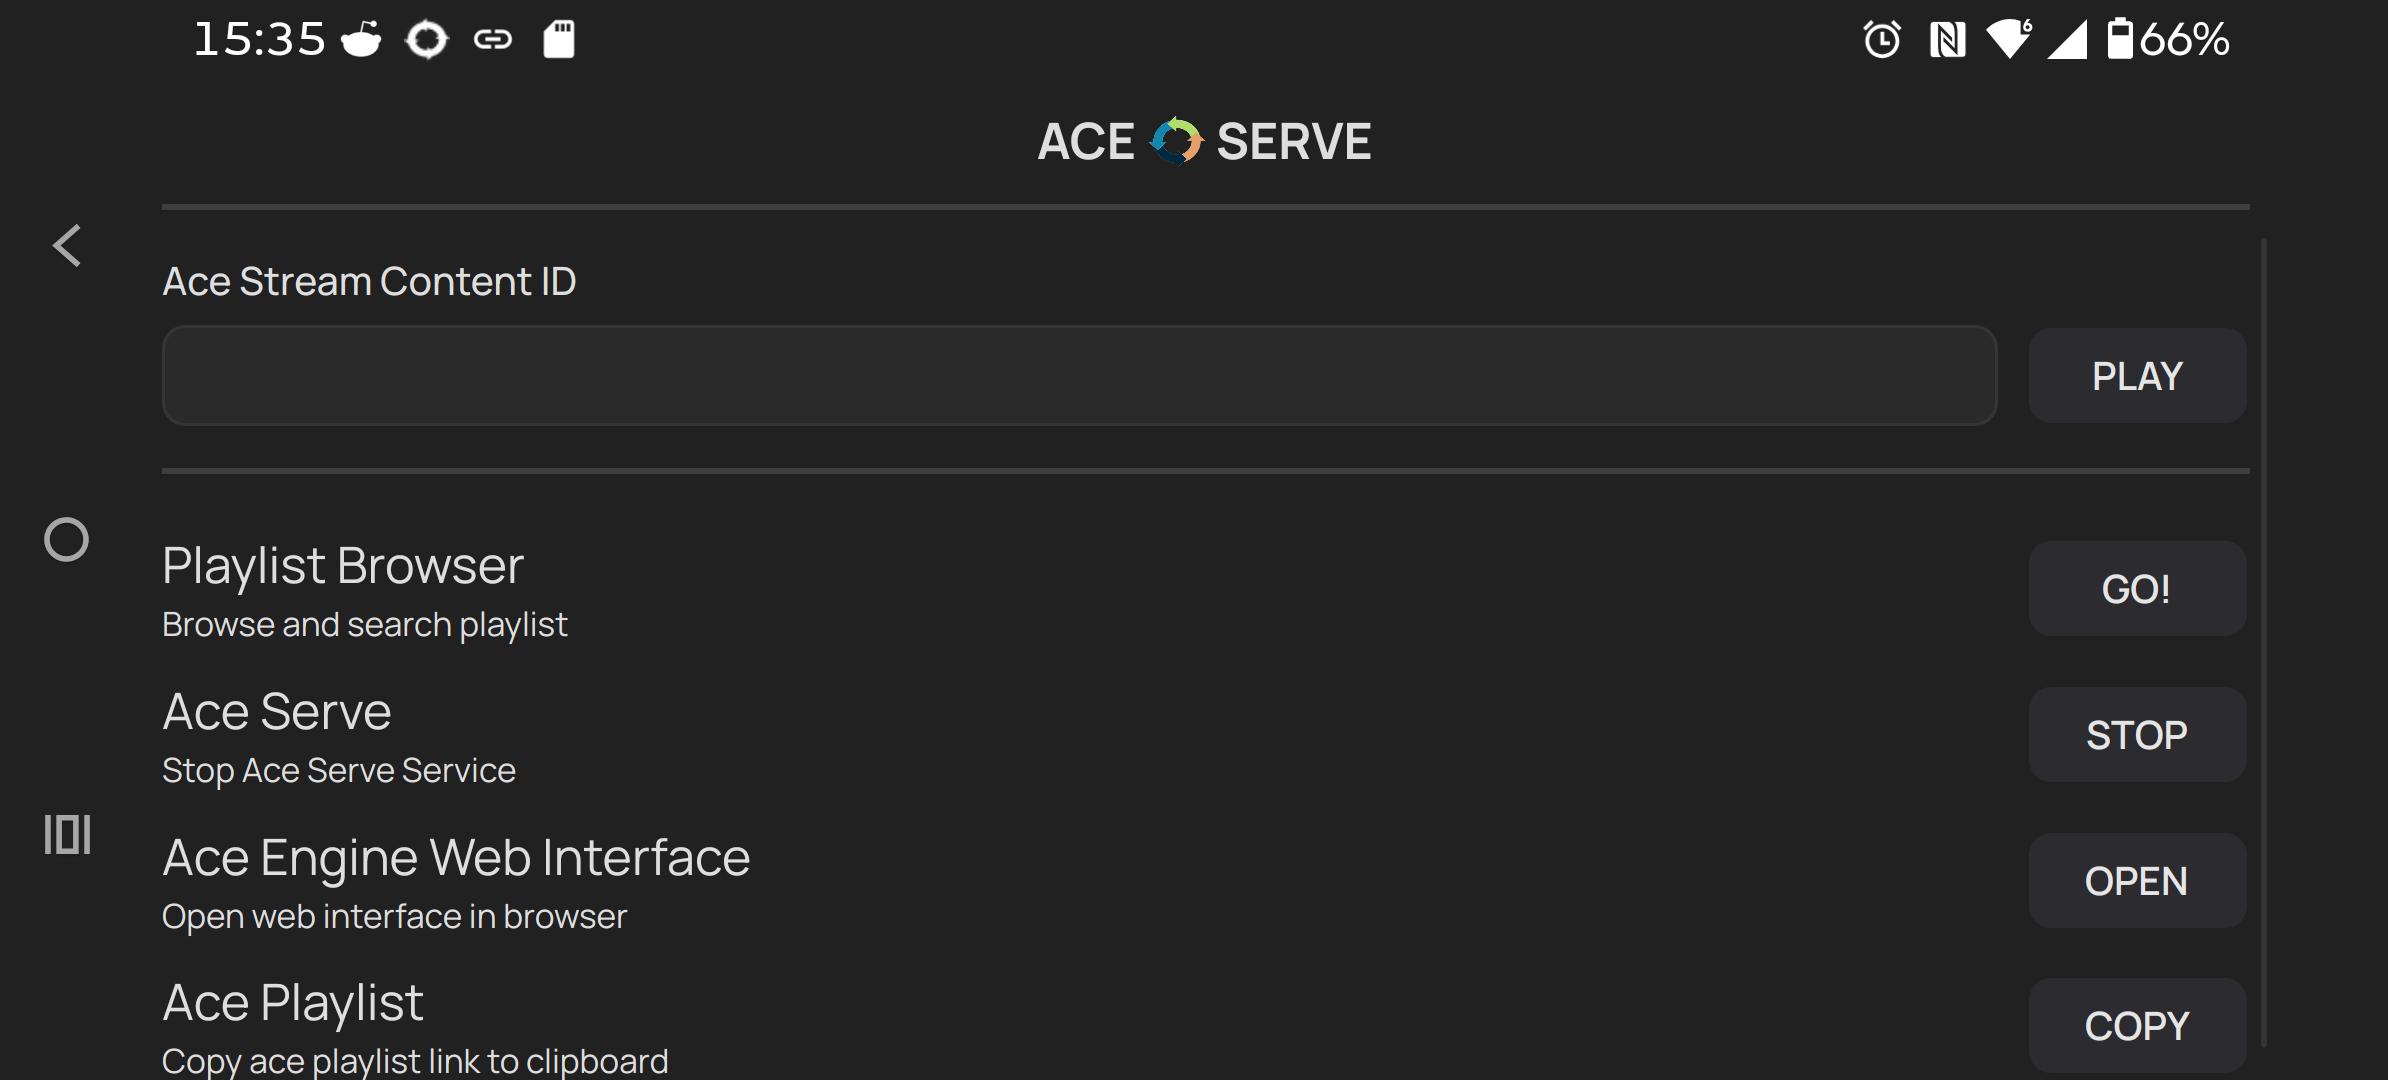
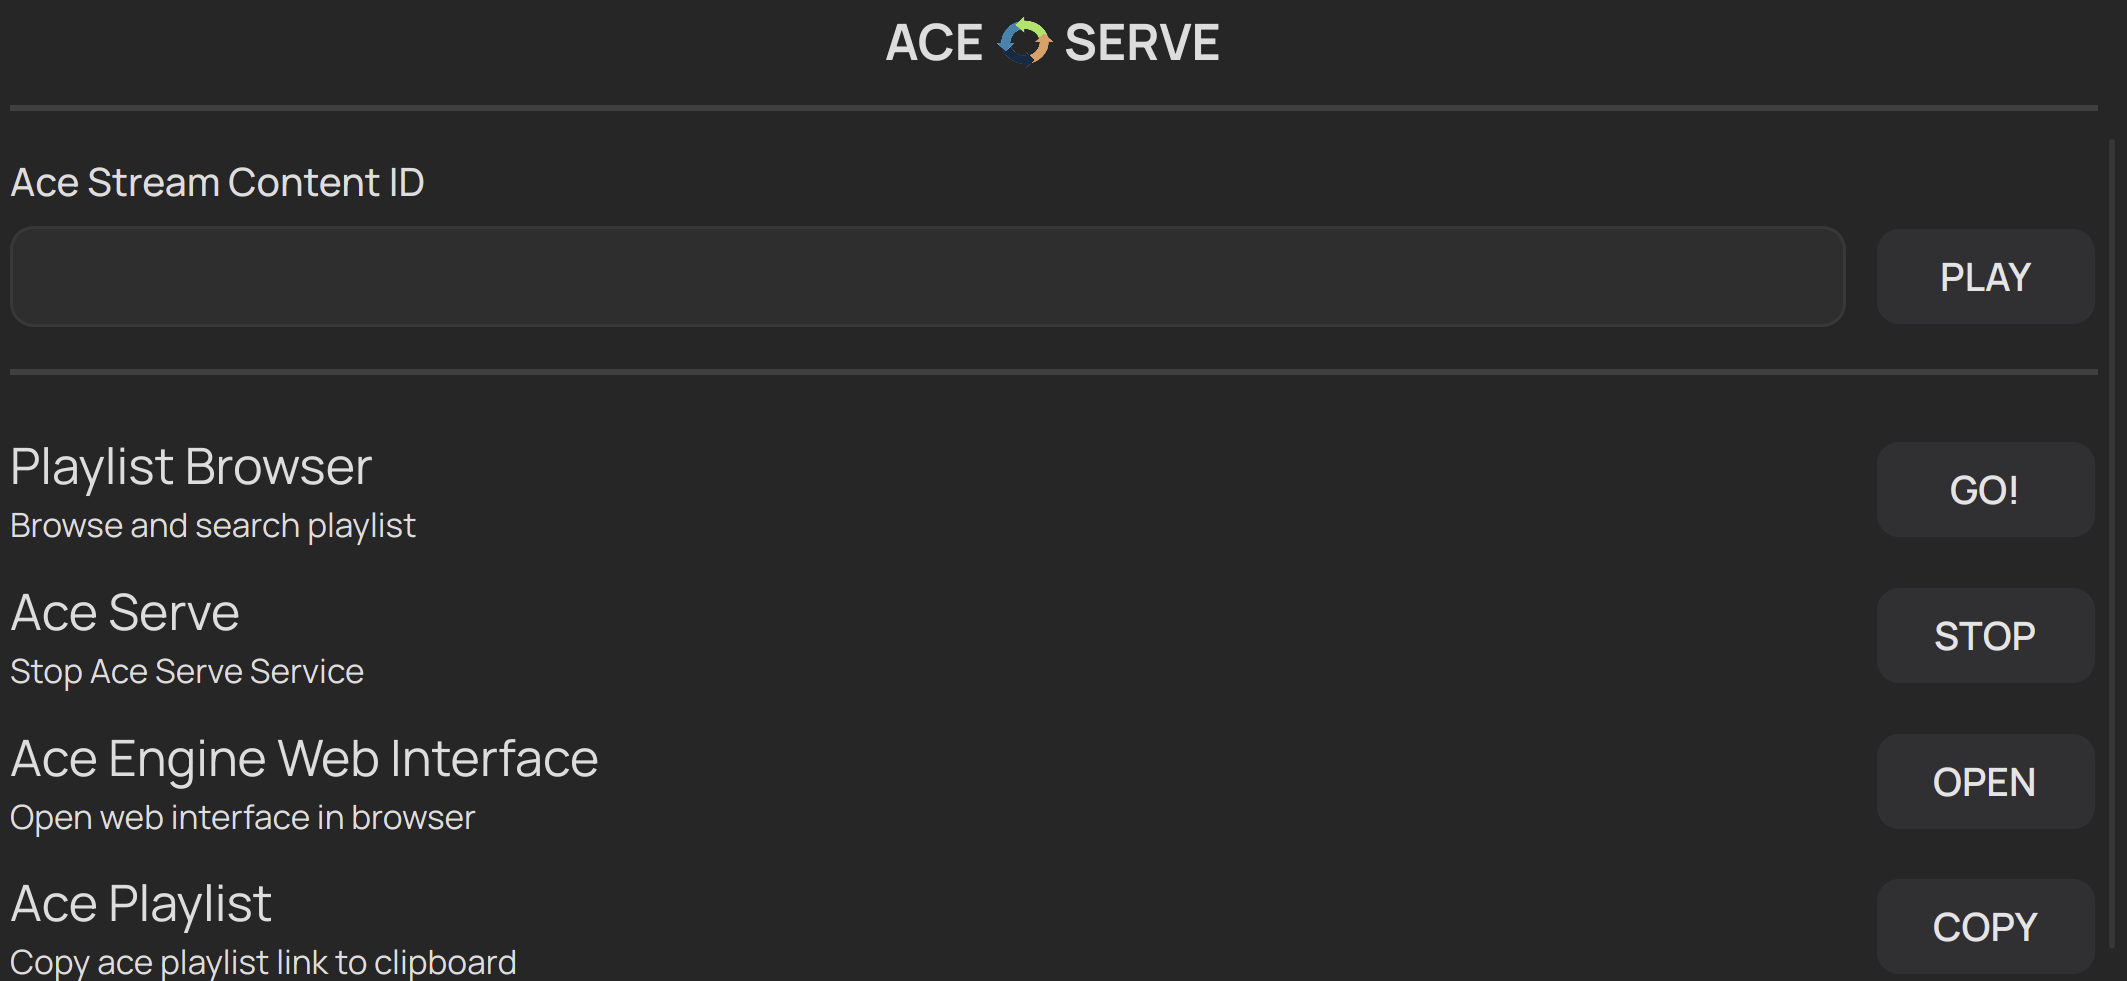
acestream
fix links screenshots

diff --git a/docs/guide/acestream.md b/docs/guide/acestream.md
@@ -26,6 +26,7 @@
     
     * <a href="https://www.dropbox.com/scl/fi/sz1kjiwgtnww1bjsmryfn/Aceserve-1.5.5-64bit.apk?rlkey=u8ekpvc4yq14wzvrwburg7jis&st=86575k8p&dl=1" target="_blank">Android ARMV8A 64bit</a> Smartphone/Tablet (Android 12 - 16)
     * Avviare AceServe una prima volta per dare i permessi
+    * Premere "START" per avviare [(Foto)](../images/aceserve_start.png){ target="_blank" }
     * Tornare alla home page col tasto dedicato per **lasciarlo aperto in background**
 
 ??? info "Acestream per Linux"

diff --git a/docs/guide/kodi_settings.md b/docs/guide/kodi_settings.md
@@ -86,7 +86,7 @@
     * In basso a sinistra cliccare sul pulsante "Base" fino a selezionare "Esperto"
     * Sulla sinistra compare il menu "**Cache**"
     * Modalità Buffer: selezionare "Buffer di tutti i file system internet"
-    * Dimensione Memoria: "64 MB"
+    * Dimensione Memoria: "48 MB"
     * Premere "OK" per confermare [(Foto)](../images/Kodi_cache.png){ target="_blank" }
     * Uscire da Kodi e rientrare
 
